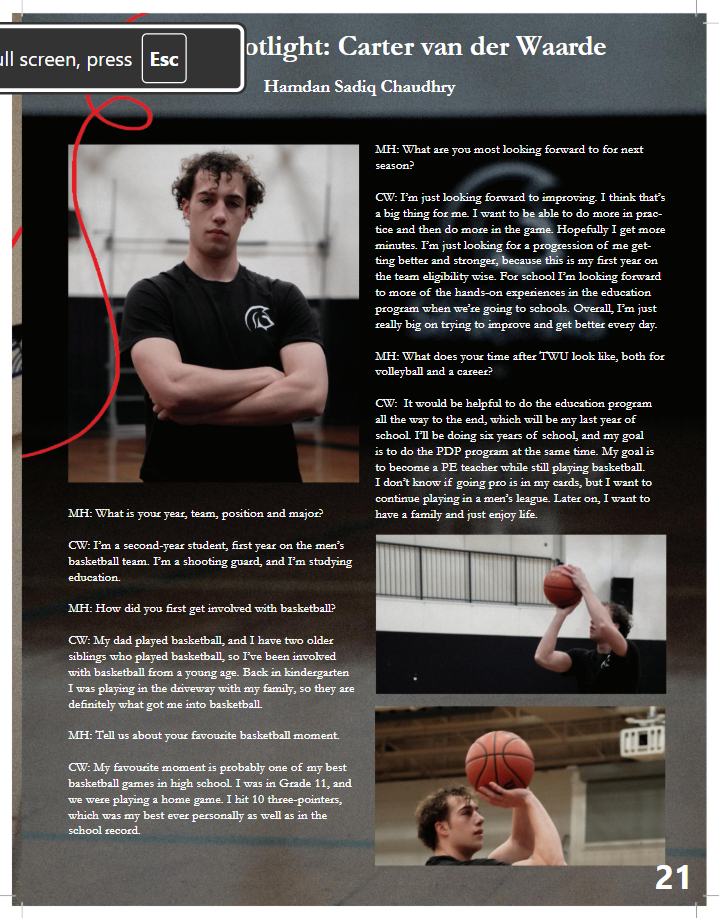
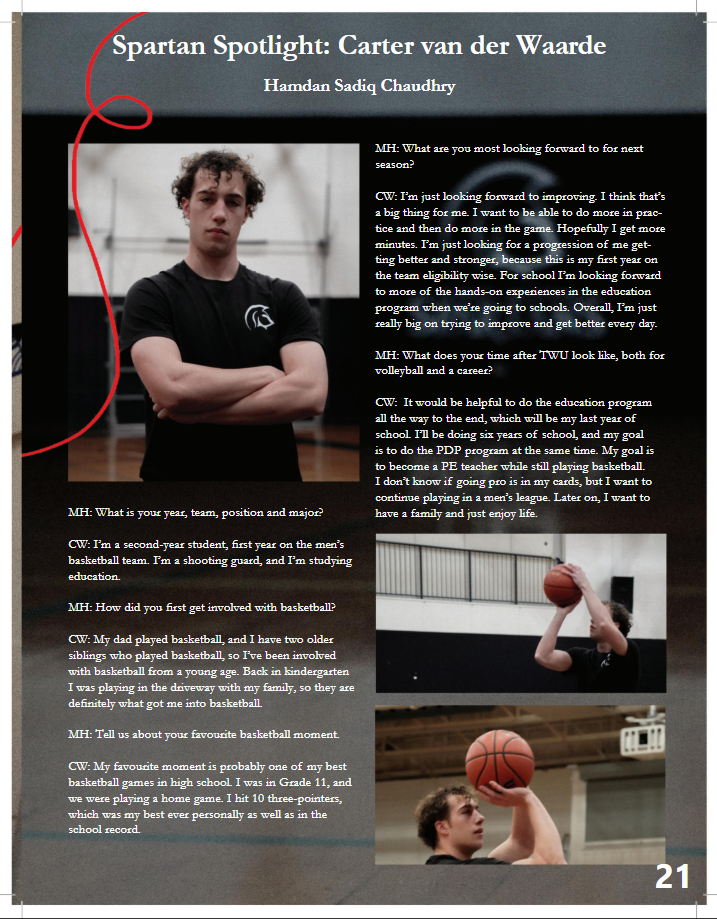
New Changes

diff --git a/src/components/Writings.vue b/src/components/Writings.vue
@@ -3,7 +3,7 @@
     <Header />
 
     <main class="gallery-section">
-      <h1 class="gallery-title">My Projects</h1>
+      <h1 class="gallery-title">My Articles</h1>
 
       <div class="slideshow-container" @click="cycleImage">
         <img 
